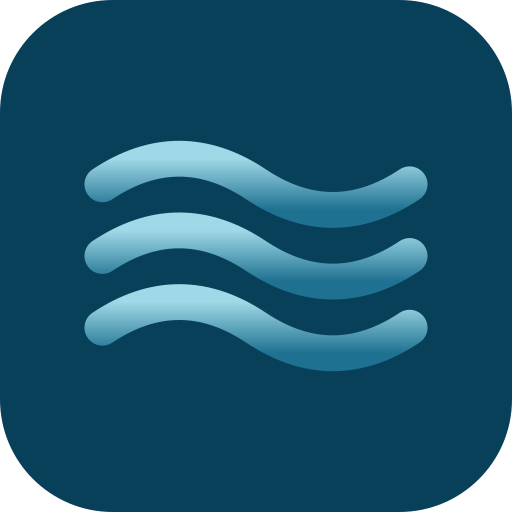
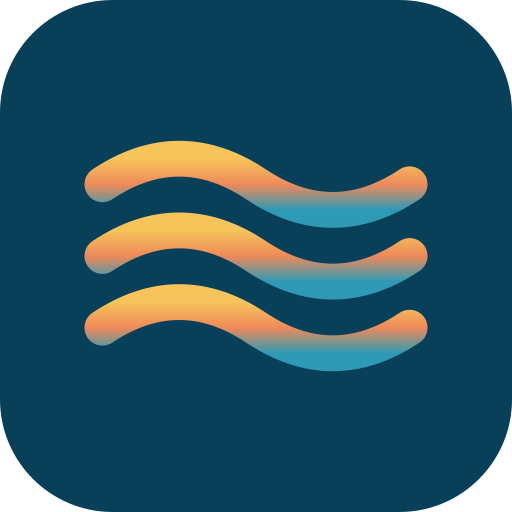
Make sunset the primary colourway
Promotes the sunset gradient (#F6C45A → #EE8A5A → #2E9AB5) to primary:
- Nav lockup on all 20 pages now uses sunset (echoes the amber CTAs).
- favicon.svg, app-icon.svg, brand/icon.svg and the logo lockups rebuilt
  in sunset; raster favicon/app-icon set regenerated.
- Aqua retained as the cool alternate colourway; README updated.
- Removed brand/previews scratch images.

Claude-Session: https://claude.ai/code/session_01NFkGijDkhRwVNbawJMtVdk

Changed region(s): [[0.1562, 0.25, 0.8438, 0.4688], [0.1562, 0.5312, 0.8438, 0.75], [0.1562, 0.4062, 0.8438, 0.5938]]

diff --git a/index.html b/index.html
@@ -136,7 +136,7 @@
 <header class="nav">
   <a class="brand" href="index.html" aria-label="CancunToGo home">
     <svg width="166" height="48" viewBox="0 0 300 88" xmlns="http://www.w3.org/2000/svg" role="img" aria-label="CancunToGo">
-      <defs><linearGradient id="ctgNav" x1="0" y1="0" x2="0" y2="1"><stop offset="0" stop-color="#BFE8F0"/><stop offset="1" stop-color="#4FB0CC"/></linearGradient></defs>
+      <defs><linearGradient id="ctgNav" x1="0" y1="0" x2="0" y2="1"><stop offset="0" stop-color="#F6C45A"/><stop offset="0.5" stop-color="#EE8A5A"/><stop offset="1" stop-color="#2E9AB5"/></linearGradient></defs>
       <g transform="translate(34 44) scale(0.62) translate(-50 -50)" fill="none" stroke="url(#ctgNav)" stroke-width="5.5" stroke-linecap="round">
         <path d="M20 36 Q35 26 50 36 Q65 46 80 36"/>
         <path d="M20 50 Q35 40 50 50 Q65 60 80 50"/>

diff --git a/contact.html b/contact.html
@@ -92,7 +92,7 @@
 <header class="nav">
   <a class="brand" href="index.html" aria-label="CancunToGo home">
     <svg width="166" height="48" viewBox="0 0 300 88" xmlns="http://www.w3.org/2000/svg" role="img" aria-label="CancunToGo">
-      <defs><linearGradient id="ctgNav" x1="0" y1="0" x2="0" y2="1"><stop offset="0" stop-color="#BFE8F0"/><stop offset="1" stop-color="#4FB0CC"/></linearGradient></defs>
+      <defs><linearGradient id="ctgNav" x1="0" y1="0" x2="0" y2="1"><stop offset="0" stop-color="#F6C45A"/><stop offset="0.5" stop-color="#EE8A5A"/><stop offset="1" stop-color="#2E9AB5"/></linearGradient></defs>
       <g transform="translate(34 44) scale(0.62) translate(-50 -50)" fill="none" stroke="url(#ctgNav)" stroke-width="5.5" stroke-linecap="round">
         <path d="M20 36 Q35 26 50 36 Q65 46 80 36"/>
         <path d="M20 50 Q35 40 50 50 Q65 60 80 50"/>

diff --git a/resorts/hard-rock/index.html b/resorts/hard-rock/index.html
@@ -156,7 +156,7 @@
 <header>
   <a class="brand" href="../../index.html" aria-label="CancunToGo home">
     <svg width="166" height="48" viewBox="0 0 300 88" xmlns="http://www.w3.org/2000/svg" role="img" aria-label="CancunToGo">
-      <defs><linearGradient id="ctgNav" x1="0" y1="0" x2="0" y2="1"><stop offset="0" stop-color="#BFE8F0"/><stop offset="1" stop-color="#4FB0CC"/></linearGradient></defs>
+      <defs><linearGradient id="ctgNav" x1="0" y1="0" x2="0" y2="1"><stop offset="0" stop-color="#F6C45A"/><stop offset="0.5" stop-color="#EE8A5A"/><stop offset="1" stop-color="#2E9AB5"/></linearGradient></defs>
       <g transform="translate(34 44) scale(0.62) translate(-50 -50)" fill="none" stroke="url(#ctgNav)" stroke-width="5.5" stroke-linecap="round">
         <path d="M20 36 Q35 26 50 36 Q65 46 80 36"/>
         <path d="M20 50 Q35 40 50 50 Q65 60 80 50"/>

diff --git a/resorts/secrets-mirabel-cancun/index.html b/resorts/secrets-mirabel-cancun/index.html
@@ -151,7 +151,7 @@
 <header>
   <a class="brand" href="../../index.html" aria-label="CancunToGo home">
     <svg width="166" height="48" viewBox="0 0 300 88" xmlns="http://www.w3.org/2000/svg" role="img" aria-label="CancunToGo">
-      <defs><linearGradient id="ctgNav" x1="0" y1="0" x2="0" y2="1"><stop offset="0" stop-color="#BFE8F0"/><stop offset="1" stop-color="#4FB0CC"/></linearGradient></defs>
+      <defs><linearGradient id="ctgNav" x1="0" y1="0" x2="0" y2="1"><stop offset="0" stop-color="#F6C45A"/><stop offset="0.5" stop-color="#EE8A5A"/><stop offset="1" stop-color="#2E9AB5"/></linearGradient></defs>
       <g transform="translate(34 44) scale(0.62) translate(-50 -50)" fill="none" stroke="url(#ctgNav)" stroke-width="5.5" stroke-linecap="round">
         <path d="M20 36 Q35 26 50 36 Q65 46 80 36"/>
         <path d="M20 50 Q35 40 50 50 Q65 60 80 50"/>

diff --git a/guides/cancun-vs-tulum.html b/guides/cancun-vs-tulum.html
@@ -180,7 +180,7 @@
 <header>
   <a class="brand" href="../index.html" aria-label="CancunToGo home">
     <svg width="166" height="48" viewBox="0 0 300 88" xmlns="http://www.w3.org/2000/svg" role="img" aria-label="CancunToGo">
-      <defs><linearGradient id="ctgNav" x1="0" y1="0" x2="0" y2="1"><stop offset="0" stop-color="#BFE8F0"/><stop offset="1" stop-color="#4FB0CC"/></linearGradient></defs>
+      <defs><linearGradient id="ctgNav" x1="0" y1="0" x2="0" y2="1"><stop offset="0" stop-color="#F6C45A"/><stop offset="0.5" stop-color="#EE8A5A"/><stop offset="1" stop-color="#2E9AB5"/></linearGradient></defs>
       <g transform="translate(34 44) scale(0.62) translate(-50 -50)" fill="none" stroke="url(#ctgNav)" stroke-width="5.5" stroke-linecap="round">
         <path d="M20 36 Q35 26 50 36 Q65 46 80 36"/>
         <path d="M20 50 Q35 40 50 50 Q65 60 80 50"/>

diff --git a/guides/hyatt-ziva-vs-zilara.html b/guides/hyatt-ziva-vs-zilara.html
@@ -188,7 +188,7 @@
 <header>
   <a class="brand" href="../index.html" aria-label="CancunToGo home">
     <svg width="166" height="48" viewBox="0 0 300 88" xmlns="http://www.w3.org/2000/svg" role="img" aria-label="CancunToGo">
-      <defs><linearGradient id="ctgNav" x1="0" y1="0" x2="0" y2="1"><stop offset="0" stop-color="#BFE8F0"/><stop offset="1" stop-color="#4FB0CC"/></linearGradient></defs>
+      <defs><linearGradient id="ctgNav" x1="0" y1="0" x2="0" y2="1"><stop offset="0" stop-color="#F6C45A"/><stop offset="0.5" stop-color="#EE8A5A"/><stop offset="1" stop-color="#2E9AB5"/></linearGradient></defs>
       <g transform="translate(34 44) scale(0.62) translate(-50 -50)" fill="none" stroke="url(#ctgNav)" stroke-width="5.5" stroke-linecap="round">
         <path d="M20 36 Q35 26 50 36 Q65 46 80 36"/>
         <path d="M20 50 Q35 40 50 50 Q65 60 80 50"/>

diff --git a/guides/le-blanc-vs-secrets-the-vine.html b/guides/le-blanc-vs-secrets-the-vine.html
@@ -188,7 +188,7 @@
 <header>
   <a class="brand" href="../index.html" aria-label="CancunToGo home">
     <svg width="166" height="48" viewBox="0 0 300 88" xmlns="http://www.w3.org/2000/svg" role="img" aria-label="CancunToGo">
-      <defs><linearGradient id="ctgNav" x1="0" y1="0" x2="0" y2="1"><stop offset="0" stop-color="#BFE8F0"/><stop offset="1" stop-color="#4FB0CC"/></linearGradient></defs>
+      <defs><linearGradient id="ctgNav" x1="0" y1="0" x2="0" y2="1"><stop offset="0" stop-color="#F6C45A"/><stop offset="0.5" stop-color="#EE8A5A"/><stop offset="1" stop-color="#2E9AB5"/></linearGradient></defs>
       <g transform="translate(34 44) scale(0.62) translate(-50 -50)" fill="none" stroke="url(#ctgNav)" stroke-width="5.5" stroke-linecap="round">
         <path d="M20 36 Q35 26 50 36 Q65 46 80 36"/>
         <path d="M20 50 Q35 40 50 50 Q65 60 80 50"/>

diff --git a/resorts/breathless-soul.html b/resorts/breathless-soul.html
@@ -161,7 +161,7 @@
 <header>
   <a class="brand" href="../index.html" aria-label="CancunToGo home">
     <svg width="166" height="48" viewBox="0 0 300 88" xmlns="http://www.w3.org/2000/svg" role="img" aria-label="CancunToGo">
-      <defs><linearGradient id="ctgNav" x1="0" y1="0" x2="0" y2="1"><stop offset="0" stop-color="#BFE8F0"/><stop offset="1" stop-color="#4FB0CC"/></linearGradient></defs>
+      <defs><linearGradient id="ctgNav" x1="0" y1="0" x2="0" y2="1"><stop offset="0" stop-color="#F6C45A"/><stop offset="0.5" stop-color="#EE8A5A"/><stop offset="1" stop-color="#2E9AB5"/></linearGradient></defs>
       <g transform="translate(34 44) scale(0.62) translate(-50 -50)" fill="none" stroke="url(#ctgNav)" stroke-width="5.5" stroke-linecap="round">
         <path d="M20 36 Q35 26 50 36 Q65 46 80 36"/>
         <path d="M20 50 Q35 40 50 50 Q65 60 80 50"/>

diff --git a/resorts/hyatt-zilara.html b/resorts/hyatt-zilara.html
@@ -161,7 +161,7 @@
 <header>
   <a class="brand" href="../index.html" aria-label="CancunToGo home">
     <svg width="166" height="48" viewBox="0 0 300 88" xmlns="http://www.w3.org/2000/svg" role="img" aria-label="CancunToGo">
-      <defs><linearGradient id="ctgNav" x1="0" y1="0" x2="0" y2="1"><stop offset="0" stop-color="#BFE8F0"/><stop offset="1" stop-color="#4FB0CC"/></linearGradient></defs>
+      <defs><linearGradient id="ctgNav" x1="0" y1="0" x2="0" y2="1"><stop offset="0" stop-color="#F6C45A"/><stop offset="0.5" stop-color="#EE8A5A"/><stop offset="1" stop-color="#2E9AB5"/></linearGradient></defs>
       <g transform="translate(34 44) scale(0.62) translate(-50 -50)" fill="none" stroke="url(#ctgNav)" stroke-width="5.5" stroke-linecap="round">
         <path d="M20 36 Q35 26 50 36 Q65 46 80 36"/>
         <path d="M20 50 Q35 40 50 50 Q65 60 80 50"/>

diff --git a/resorts/hyatt-ziva.html b/resorts/hyatt-ziva.html
@@ -161,7 +161,7 @@
 <header>
   <a class="brand" href="../index.html" aria-label="CancunToGo home">
     <svg width="166" height="48" viewBox="0 0 300 88" xmlns="http://www.w3.org/2000/svg" role="img" aria-label="CancunToGo">
-      <defs><linearGradient id="ctgNav" x1="0" y1="0" x2="0" y2="1"><stop offset="0" stop-color="#BFE8F0"/><stop offset="1" stop-color="#4FB0CC"/></linearGradient></defs>
+      <defs><linearGradient id="ctgNav" x1="0" y1="0" x2="0" y2="1"><stop offset="0" stop-color="#F6C45A"/><stop offset="0.5" stop-color="#EE8A5A"/><stop offset="1" stop-color="#2E9AB5"/></linearGradient></defs>
       <g transform="translate(34 44) scale(0.62) translate(-50 -50)" fill="none" stroke="url(#ctgNav)" stroke-width="5.5" stroke-linecap="round">
         <path d="M20 36 Q35 26 50 36 Q65 46 80 36"/>
         <path d="M20 50 Q35 40 50 50 Q65 60 80 50"/>

diff --git a/resorts/le-blanc.html b/resorts/le-blanc.html
@@ -150,7 +150,7 @@
 <header>
   <a class="brand" href="../index.html" aria-label="CancunToGo home">
     <svg width="166" height="48" viewBox="0 0 300 88" xmlns="http://www.w3.org/2000/svg" role="img" aria-label="CancunToGo">
-      <defs><linearGradient id="ctgNav" x1="0" y1="0" x2="0" y2="1"><stop offset="0" stop-color="#BFE8F0"/><stop offset="1" stop-color="#4FB0CC"/></linearGradient></defs>
+      <defs><linearGradient id="ctgNav" x1="0" y1="0" x2="0" y2="1"><stop offset="0" stop-color="#F6C45A"/><stop offset="0.5" stop-color="#EE8A5A"/><stop offset="1" stop-color="#2E9AB5"/></linearGradient></defs>
       <g transform="translate(34 44) scale(0.62) translate(-50 -50)" fill="none" stroke="url(#ctgNav)" stroke-width="5.5" stroke-linecap="round">
         <path d="M20 36 Q35 26 50 36 Q65 46 80 36"/>
         <path d="M20 50 Q35 40 50 50 Q65 60 80 50"/>

diff --git a/resorts/live-aqua.html b/resorts/live-aqua.html
@@ -150,7 +150,7 @@
 <header>
   <a class="brand" href="../index.html" aria-label="CancunToGo home">
     <svg width="166" height="48" viewBox="0 0 300 88" xmlns="http://www.w3.org/2000/svg" role="img" aria-label="CancunToGo">
-      <defs><linearGradient id="ctgNav" x1="0" y1="0" x2="0" y2="1"><stop offset="0" stop-color="#BFE8F0"/><stop offset="1" stop-color="#4FB0CC"/></linearGradient></defs>
+      <defs><linearGradient id="ctgNav" x1="0" y1="0" x2="0" y2="1"><stop offset="0" stop-color="#F6C45A"/><stop offset="0.5" stop-color="#EE8A5A"/><stop offset="1" stop-color="#2E9AB5"/></linearGradient></defs>
       <g transform="translate(34 44) scale(0.62) translate(-50 -50)" fill="none" stroke="url(#ctgNav)" stroke-width="5.5" stroke-linecap="round">
         <path d="M20 36 Q35 26 50 36 Q65 46 80 36"/>
         <path d="M20 50 Q35 40 50 50 Q65 60 80 50"/>
